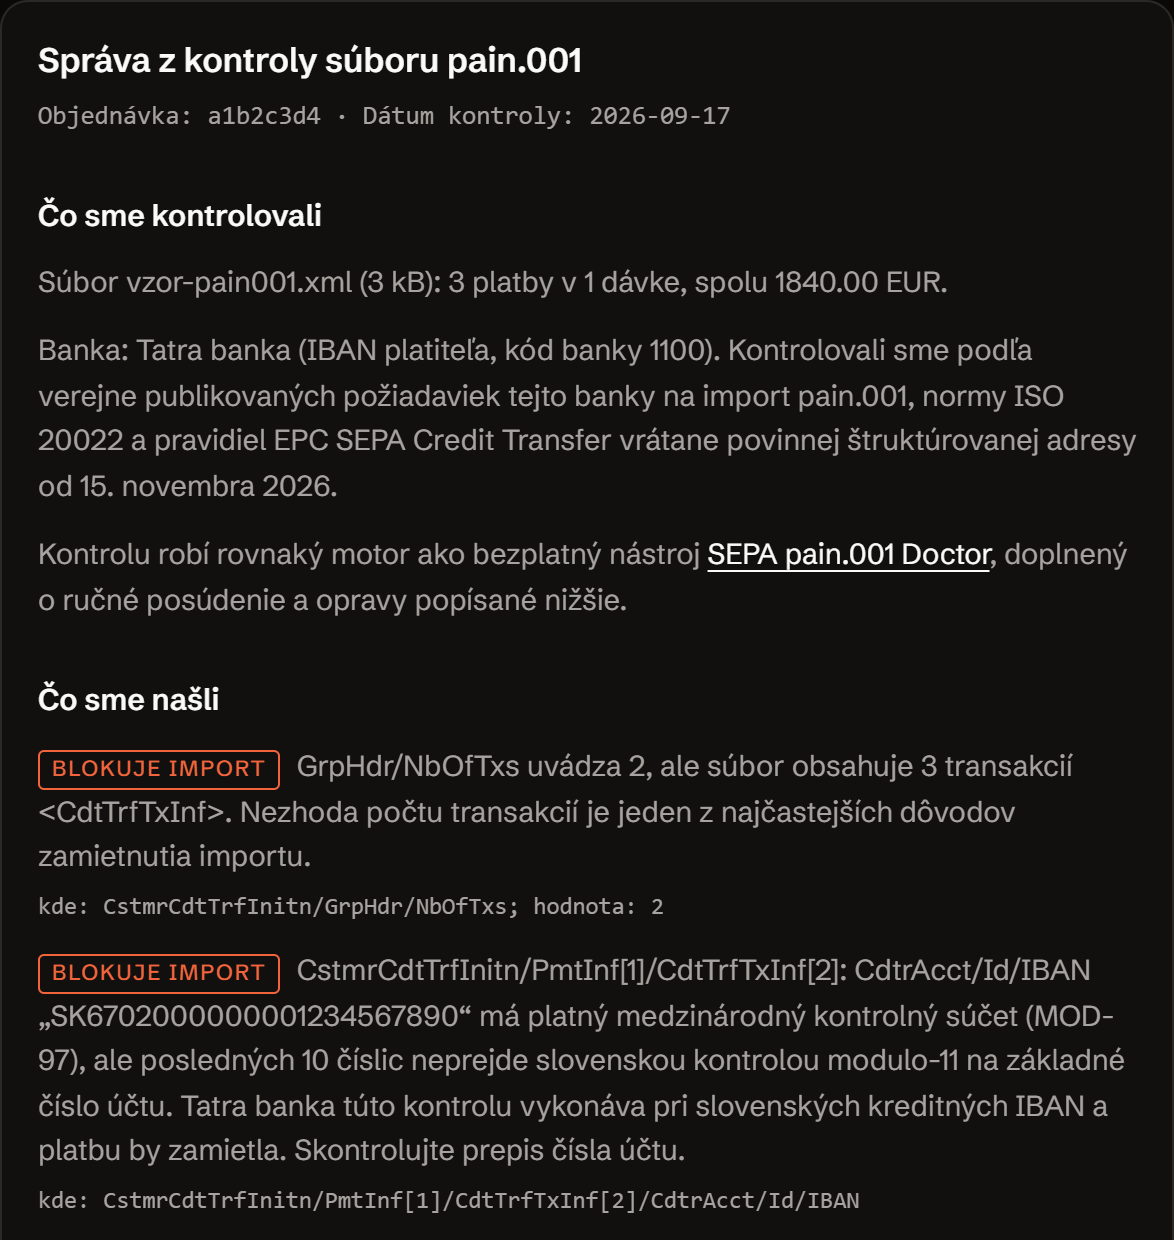
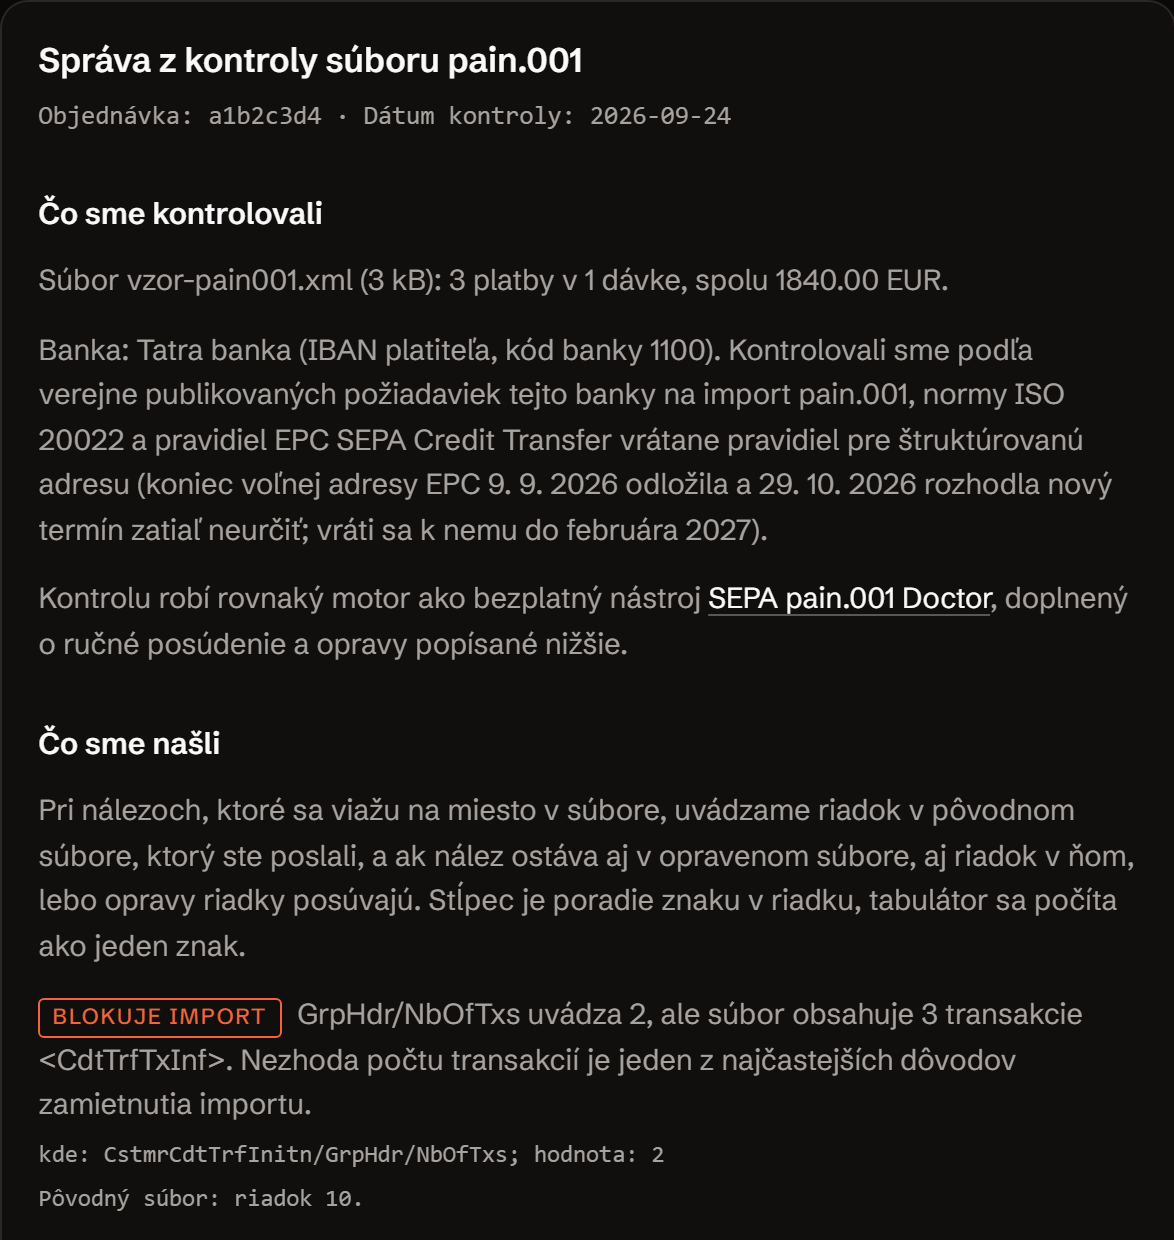
SEPA: návrh mesta a krajiny z adresy namiesto napevno Bratislavy a SK, riadok aj na stránke generátora, anglická a nemecká platená správa bez slovenských viet; linka sepa-mesto-jazyk, brána ops/ai/kontrola/2026-11-20-sepa-mesto-jazyk.md pokus 3 PREJDE

diff --git a/kontrola-suboru/index.html b/kontrola-suboru/index.html
@@ -316,6 +316,7 @@ html:not(.css) main>:nth-child(n+2),html:not(.css) body>footer{visibility:hidden
     font-family:var(--ui); font-size:14.5px; line-height:1.55; color:var(--body); }
   body.noc .vystup li, .vystup li { min-width:0; overflow-wrap:anywhere; color:var(--body); }
   .vystup .kde { display:block; font-family:var(--mono); font-size:12px; color:var(--body); margin-top:4px; }
+  body.noc .vystup .poloha-uvod, .vystup .poloha-uvod { font:14.5px/1.55 var(--ui); color:var(--body); margin:0 0 12px; }
   .znacka { display:inline-block; font:500 11px/1.6 var(--ui); letter-spacing:.08em; text-transform:uppercase;
     border:1px solid var(--line); border-radius:3px; padding:0 6px; margin-right:8px; white-space:nowrap;
     color:var(--body); }
@@ -374,8 +375,8 @@ html:not(.css) main>:nth-child(n+2),html:not(.css) body>footer{visibility:hidden
         </dl>
       </div>
       <figure class="uv-lead-art">
-        <img src="nahlad/sprava.png" alt="Výrez zo správy z kontroly: zoznam nálezov s označením blokuje import a treba opraviť, pri každom náleze cesta v XML." width="1174" height="1240" decoding="async">
-        <figcaption>Výrez zo vzorovej správy zo 17. 9. 2026. Veta o povinnej adrese od 15. novembra 2026 v ňom už neplatí, EPC termín odložila. Čísla riadkov v ňom ešte nie sú, správa ich uvádza od 20. 11. 2026. Aktuálna <a href="#ukazka">celá správa a oba súbory</a> z 24. 9. 2026 sú nižšie na stiahnutie.</figcaption>
+        <img src="nahlad/sprava.png" alt="Výrez zo začiatku správy z kontroly: čo sme kontrolovali, veta o tom, že pri nálezoch uvádzame riadok v pôvodnom a v opravenom súbore, a prvý nález s označením blokuje import, cestou v XML a riadkom 10 v pôvodnom súbore." width="1174" height="1240" decoding="async">
+        <figcaption>Výrez zo vzorovej správy k súboru vzor-pain001.xml s dátumom kontroly 24. 9. 2026, výstup generátora správy z 20. 11. 2026. Riadky v pôvodnom a v opravenom súbore správa uvádza od 20. 11. 2026. <a href="#ukazka">Celá správa a oba súbory</a> sú nižšie na stiahnutie.</figcaption>
       </figure>
     </div>
   </div>
@@ -417,9 +418,9 @@ html:not(.css) main>:nth-child(n+2),html:not(.css) body>footer{visibility:hidden
         </ul>
 
         <h3>Čo sme našli</h3>
-        <p>Pri nálezoch, ktoré sa viažu na miesto v súbore, uvádzame riadok v pôvodnom súbore, ktorý ste poslali, a ak nález ostáva aj v opravenom súbore, aj riadok v ňom, lebo opravy riadky posúvajú. Stĺpec je poradie znaku v riadku, tabulátor sa počíta ako jeden znak.</p>
+        <p class="poloha-uvod">Pri nálezoch, ktoré sa viažu na miesto v súbore, uvádzame riadok v pôvodnom súbore, ktorý ste poslali, a ak nález ostáva aj v opravenom súbore, aj riadok v ňom, lebo opravy riadky posúvajú. Stĺpec je poradie znaku v riadku, tabulátor sa počíta ako jeden znak.</p>
         <ul>
-          <li><span class="znacka blok">blokuje import</span>GrpHdr/NbOfTxs uvádza 2, ale súbor obsahuje 3 transakcií &lt;CdtTrfTxInf&gt;. Nezhoda počtu transakcií je jeden z najčastejších dôvodov zamietnutia importu.<span class="kde">kde: CstmrCdtTrfInitn/GrpHdr/NbOfTxs; hodnota: 2</span><span class="kde">Pôvodný súbor: riadok 10.</span></li>
+          <li><span class="znacka blok">blokuje import</span>GrpHdr/NbOfTxs uvádza 2, ale súbor obsahuje 3 transakcie &lt;CdtTrfTxInf&gt;. Nezhoda počtu transakcií je jeden z najčastejších dôvodov zamietnutia importu.<span class="kde">kde: CstmrCdtTrfInitn/GrpHdr/NbOfTxs; hodnota: 2</span><span class="kde">Pôvodný súbor: riadok 10.</span></li>
           <li><span class="znacka blok">blokuje import</span>CstmrCdtTrfInitn/PmtInf[1]/CdtTrfTxInf[2]: CdtrAcct/Id/IBAN „SK6702000000001234567890“ má platný medzinárodný kontrolný súčet (MOD-97), ale posledných 10 číslic neprejde slovenskou kontrolou modulo-11 na základné číslo účtu. Tatra banka túto kontrolu vykonáva pri slovenských kreditných IBAN a platbu by zamietla. Skontrolujte prepis čísla účtu.<span class="kde">kde: CstmrCdtTrfInitn/PmtInf[1]/CdtTrfTxInf[2]/CdtrAcct/Id/IBAN</span><span class="kde">Pôvodný súbor: riadok 53, stĺpec 23. Opravený súbor: riadok 59, stĺpec 23.</span></li>
           <li><span class="znacka">treba opraviť</span>Adresa platiteľa a príjemcu je zapísaná ako voľný text v &lt;AdrLine&gt;. Pravidlá SEPA takú adresu zatiaľ povoľujú, odporúčame však štruktúrovanú adresu: aspoň mesto (TwnNm) a kód krajiny (Ctry) vo vlastných poliach. EPC 9. 9. 2026 odložila koniec neštruktúrovaných adries a 29. 10. 2026 rozhodla nový termín zatiaľ neurčiť; vráti sa k nemu do februára 2027. Vaša banka môže mať vlastné pravidlá skôr.<span class="kde">kde: Document/CstmrCdtTrfInitn/PmtInf/Dbtr/PstlAdr; hodnota: Vymyslena 12 | 851 01 Bratislava</span><span class="kde">Pôvodný súbor: riadky 22, 35, 48. Opravený súbor: riadok 54.</span></li>
           <li><span class="znacka">treba opraviť</span>Adresa príjemcu má štruktúrované polia, ale chýba v nej mesto (TwnNm). Mesto a kód krajiny sú podľa pravidiel EPC minimum každej štruktúrovanej aj hybridnej adresy.<span class="kde">kde: Document/CstmrCdtTrfInitn/PmtInf/CdtTrfTxInf/Cdtr/PstlAdr; hodnota: Ctry</span><span class="kde">Pôvodný súbor: riadok 61. Opravený súbor: riadok 67.</span></li>
@@ -469,7 +470,7 @@ html:not(.css) main>:nth-child(n+2),html:not(.css) body>footer{visibility:hidden
         </p>
       </div>
 
-      <p class="povod r d3">Vzorový súbor je vymyslený: mená, IBAN, adresy aj sumy sú vybraté tak, aby v ňom neboli údaje žiadnej firmy. Správu vyššie nikto neprepisoval okrem viet o termíne adries, ktoré sme 19. 11. 2026 zosúladili s rozhodnutím EPC z 29. 10. 2026; inak je to výstup nášho nástroja nad týmto súborom, spustený 24. 9. 2026 po úprave textov o odloženom termíne EPC. O prijatí súboru rozhoduje banka; opravený súbor nie je zárukou, že ho banka prijme.</p>
+      <p class="povod r d3">Vzorový súbor je vymyslený: mená, IBAN, adresy aj sumy sú vybraté tak, aby v ňom neboli údaje žiadnej firmy. Výťah vyššie je skrátená podoba správy, ktorú náš nástroj vytvoril nad týmto súborom s dátumom kontroly 24. 9. 2026; text je z 20. 11. 2026, odkedy správa uvádza riadky. Nálezy, cesty v XML, riadky a opravy sú prevzaté zo správy. Kvôli prehľadu sme doplnili porovnanie adresy platiteľa pred opravou a po nej z oboch súborov, nadpis časti pre človeka a vetu o poštovom priečinku a zvyšok správy sme zhrnuli v poslednej položke. Celú správu si stiahnete vyššie. O prijatí súboru rozhoduje banka; opravený súbor nie je zárukou, že ho banka prijme.</p>
     </div>
   </section>
 
